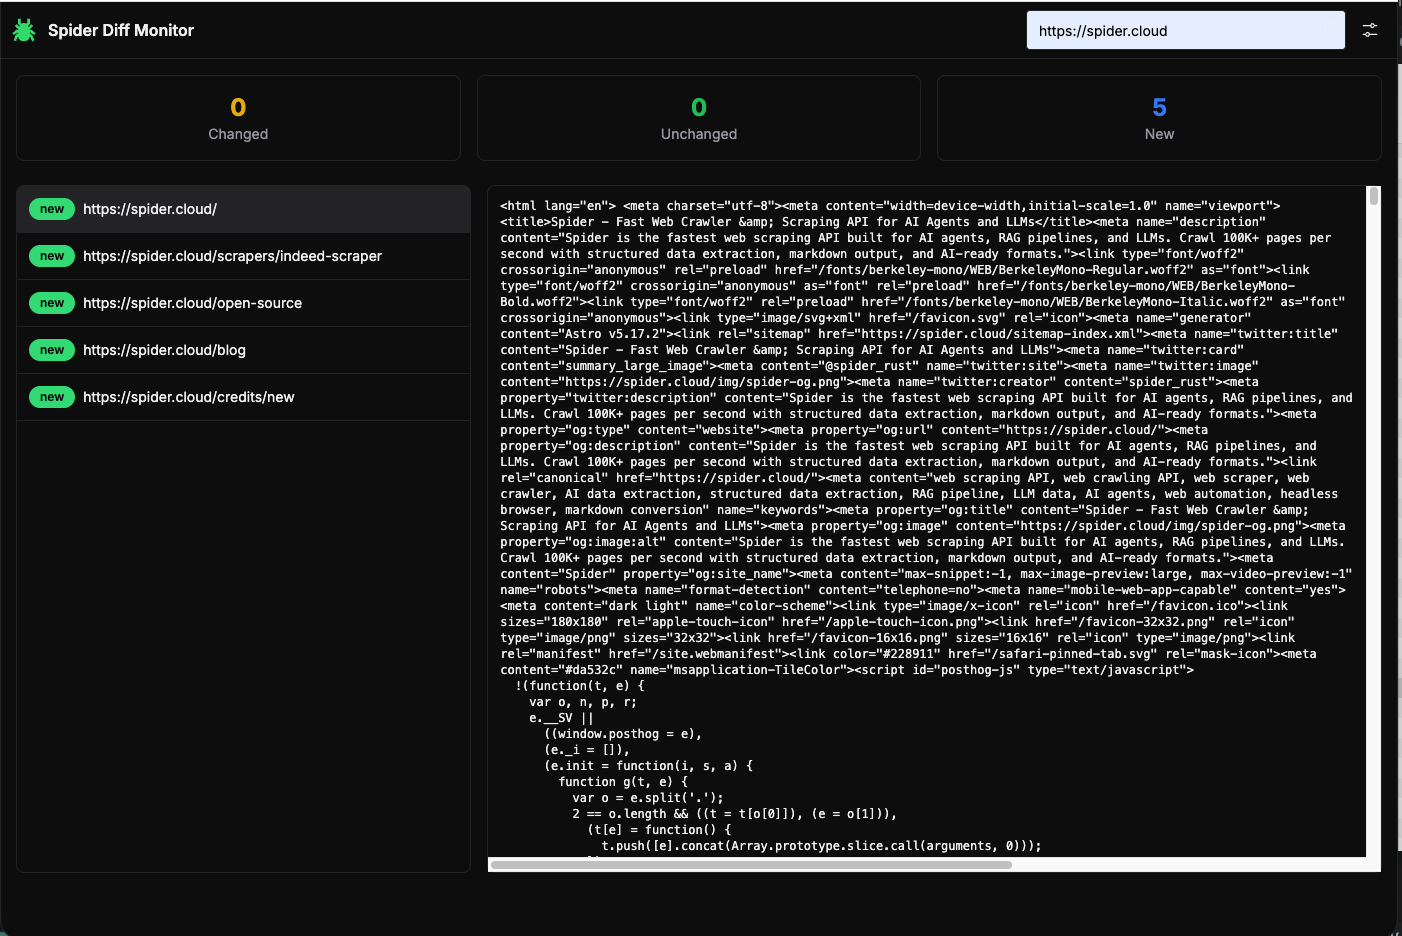
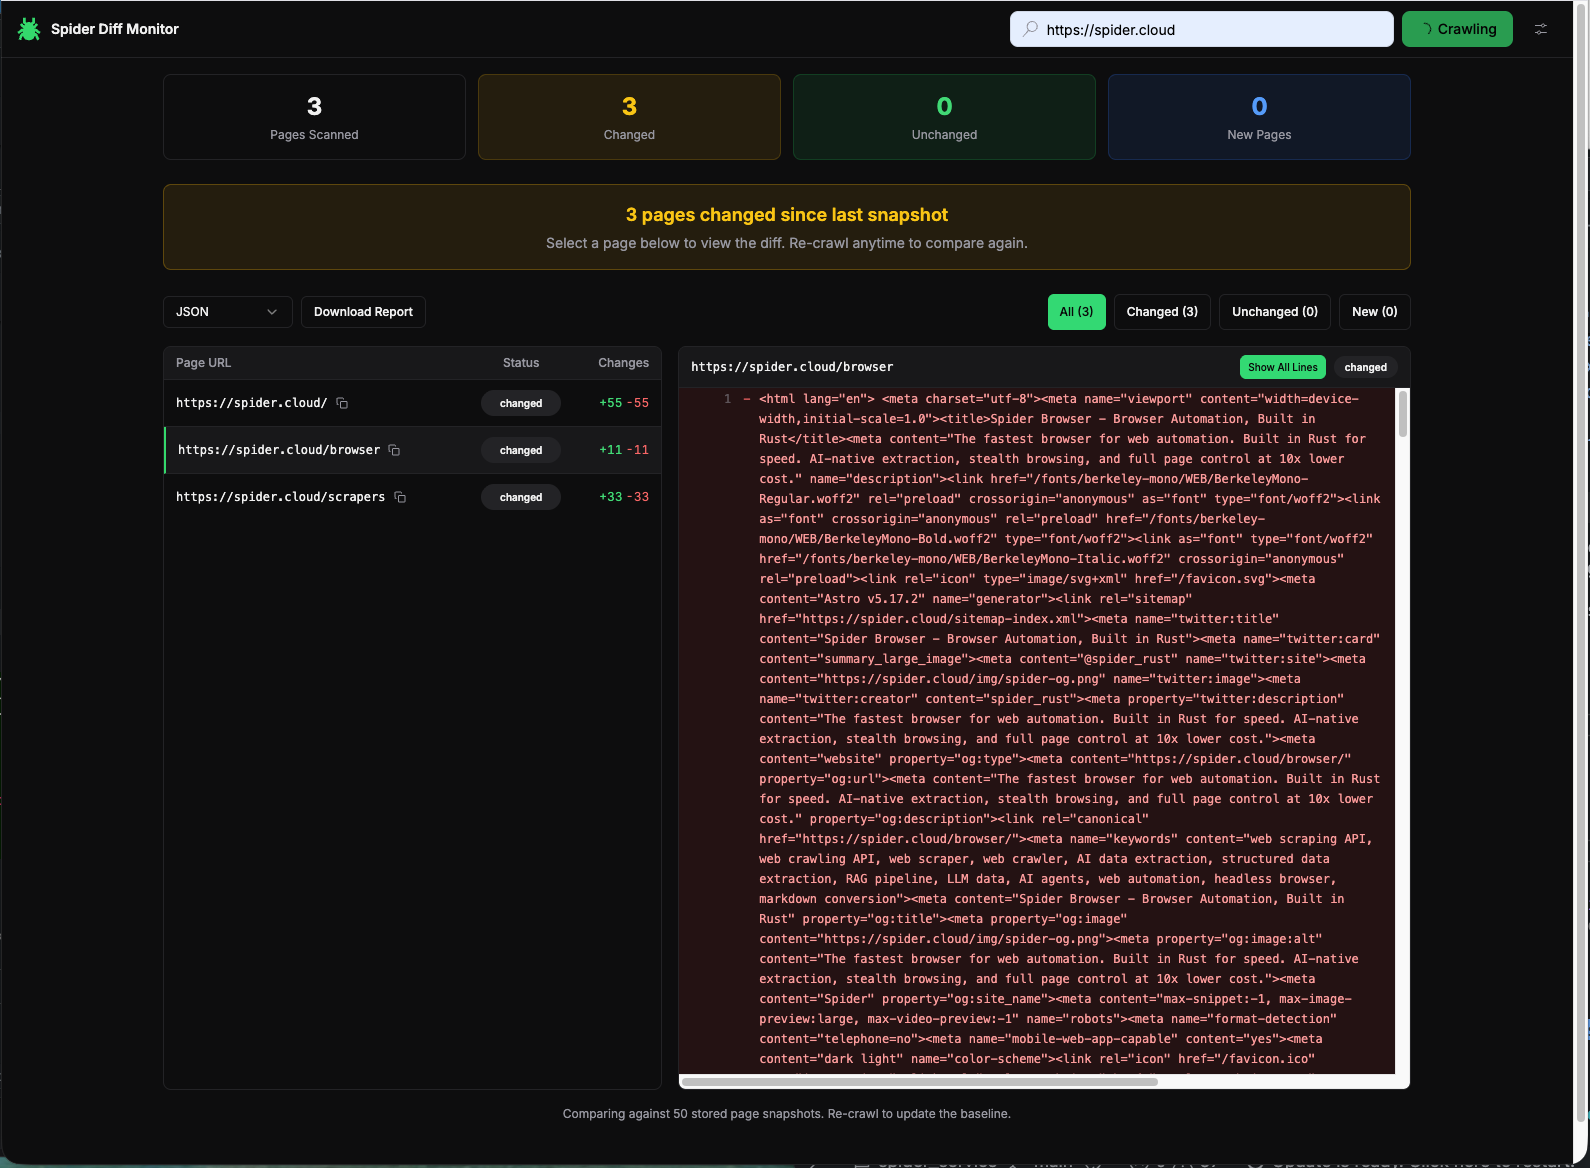
fix(ui): constrain searchbar input width and right-align form
Input was stretching too wide on wider viewports. Constrained to
max-w-xs/sm and right-aligned the form group for a balanced nav.

diff --git a/app/searchbar.tsx b/app/searchbar.tsx
@@ -117,8 +117,8 @@ const SearchBar = ({
             </svg>
             <h1 className="text-sm font-semibold truncate hidden sm:block">Spider Diff Monitor</h1>
           </a>
-          <form className="flex items-center gap-2 flex-1 min-w-0" onSubmit={onAPIEvent} noValidate>
-            <div className="relative flex-1 max-w-lg">
+          <form className="flex items-center gap-2 flex-1 min-w-0 justify-end" onSubmit={onAPIEvent} noValidate>
+            <div className="relative w-full max-w-xs sm:max-w-sm">
               <div className="absolute inset-y-0 left-0 flex items-center pl-3 pointer-events-none">
                 <VscSearch className="w-4 h-4 text-muted-foreground" />
               </div>
